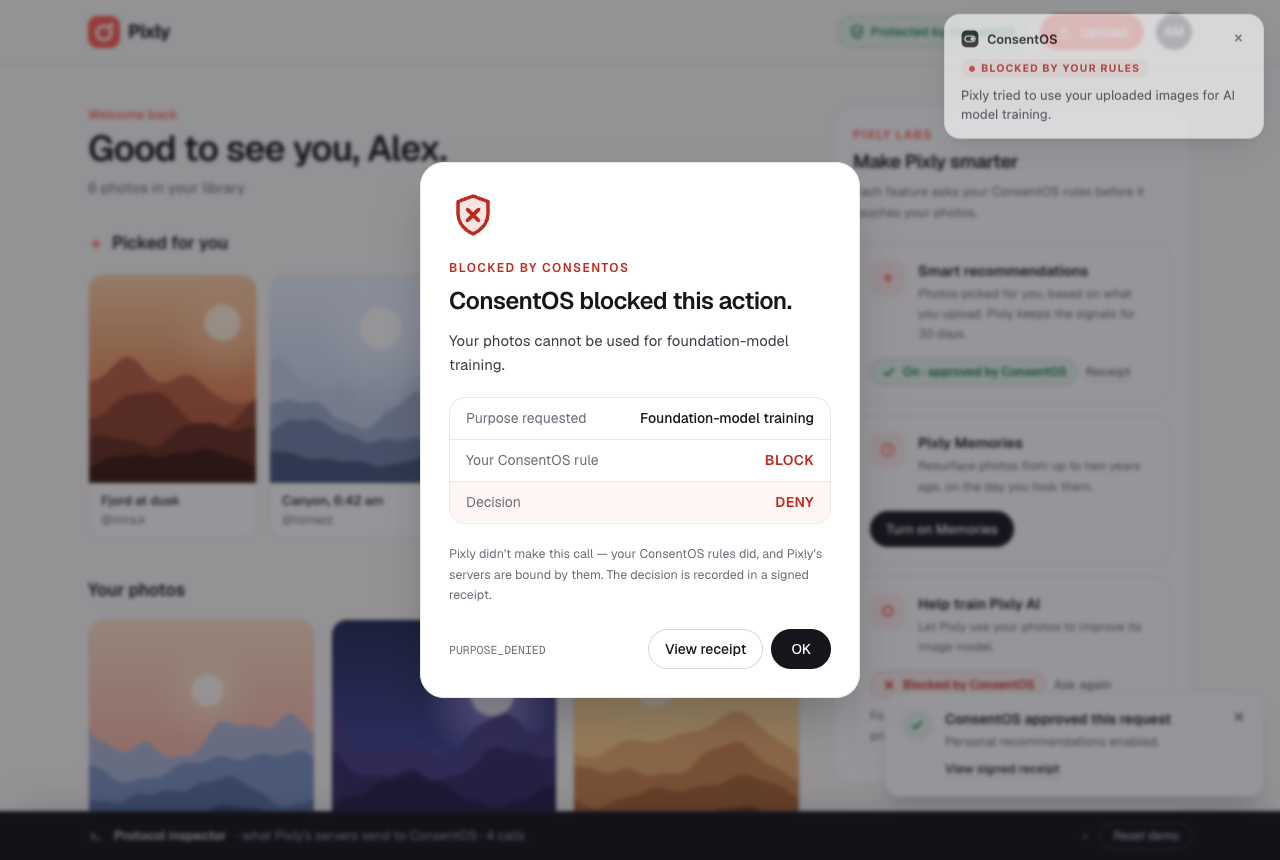
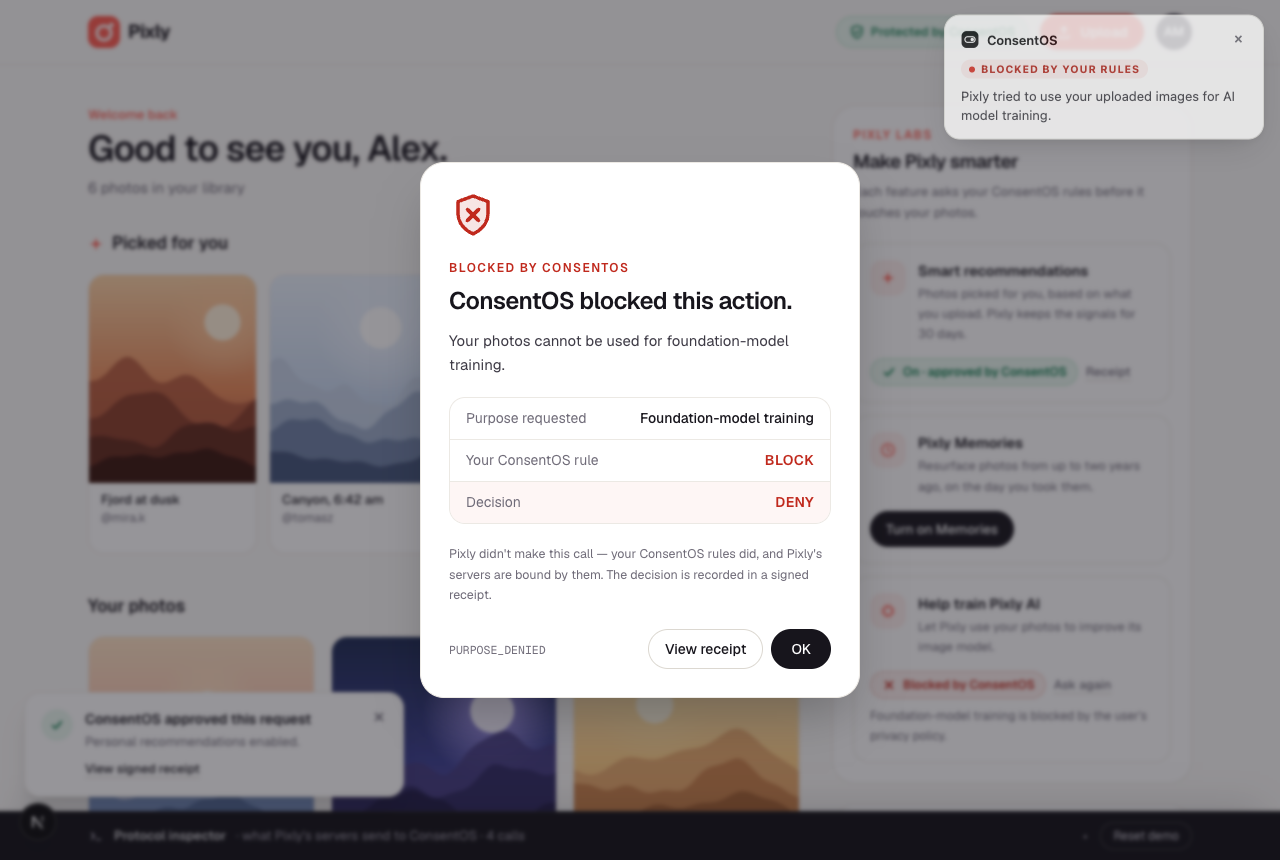
Deployment readiness, Supabase API hardening, visual polish
- Accept Vercel's Supabase integration (POSTGRES_URL), handle Supabase TLS,
  ship SQL migrations in the server bundle, serialise concurrent
  auto-migrations with an advisory lock
- New migration: user-scoped queries run as consentos_user; Supabase's
  anon/authenticated (PostgREST) roles get no access to ConsentOS tables
- Popup: pending answers first, quieter revoke, shorter site meta,
  user-facing pending reasons
- Pixly: toast no longer covers feature buttons; captions wrap
- Receipt: numbered document header (id, issued, policy version)

diff --git a/apps/web/src/server/db/index.ts b/apps/web/src/server/db/index.ts
@@ -74,12 +74,23 @@ async function openPGlite(dir: string): Promise<Database> {
   };
 }
 
+/**
+ * node-postgres treats `sslmode=require` in a URL as full certificate
+ * verification, which fails against Supabase's pooler certificate chain.
+ * Strip it and use an encrypted connection without CA pinning instead.
+ */
+export function postgresOptions(url: string): { connectionString: string; ssl: false | { rejectUnauthorized: false } } {
+  const parsed = new URL(url);
+  parsed.searchParams.delete("sslmode");
+  const local = ["localhost", "127.0.0.1", "::1"].includes(parsed.hostname);
+  return { connectionString: parsed.toString(), ssl: local ? false : { rejectUnauthorized: false } };
+}
+
 async function openPostgres(url: string): Promise<Database> {
   const { Pool } = await import("pg");
   const pool = new Pool({
-    connectionString: url,
+    ...postgresOptions(url),
     max: Number(process.env.CONSENTOS_DB_POOL_SIZE ?? 5),
-    ssl: /localhost|127\.0\.0\.1/.test(url) ? undefined : { rejectUnauthorized: false },
   });
 
   return {
@@ -115,17 +126,19 @@ async function openPostgres(url: string): Promise<Database> {
 }
 
 /**
- * Run `fn` as the given end user: inside a transaction, with the Supabase
- * `authenticated` role and JWT claims set, so row-level security applies to
- * every statement. A missing WHERE clause cannot leak another user's data.
+ * Run `fn` as the given end user: inside a transaction, as the dedicated
+ * `consentos_user` role with the user's JWT claims set, so row-level security
+ * applies to every statement. A missing WHERE clause cannot leak another
+ * user's data. (Supabase's own API roles have no access to these tables; see
+ * supabase/migrations/20260927000000_consentos_user_role.sql.)
  */
 export async function asUser<T>(userId: string, fn: (tx: Queryable) => Promise<T>): Promise<T> {
   const db = await getDb();
   return db.transaction(async (tx) => {
     await tx.query("select set_config('request.jwt.claims', $1, true)", [
-      JSON.stringify({ sub: userId, role: "authenticated" }),
+      JSON.stringify({ sub: userId, role: "consentos_user" }),
     ]);
-    await tx.query("set local role authenticated");
+    await tx.query("set local role consentos_user");
     return fn(tx);
   });
 }

diff --git a/apps/extension/src/popup/App.tsx b/apps/extension/src/popup/App.tsx
@@ -1,4 +1,11 @@
-import { dataTypeNoun, explainRule, isKnownPurpose, PURPOSE_CATALOG, purposeActivity } from "@consentos/policy-engine";
+import {
+  dataTypeNoun,
+  explainRule,
+  isKnownPurpose,
+  pendingReason,
+  PURPOSE_CATALOG,
+  purposeActivity,
+} from "@consentos/policy-engine";
 import type { EventSummary, ExtensionState, PendingSummary } from "@consentos/shared";
 import { useCallback, useEffect, useState } from "react";
 import { ApiError, fetchState, resolveRequest, revokeGrant } from "../lib/api";
@@ -304,7 +311,7 @@ function Pending({
             {p.retentionDays !== null ? `, kept ${p.retentionDays} days` : ""}.
           </p>
           <p className="muted" style={{ fontSize: 12 }}>
-            {p.reason}
+            {pendingReason(p.reasonCode, p.serviceName)}
           </p>
           <div className="pending-actions">
             <button type="button" className="btn" disabled={busy === p.requestId} onClick={() => onResolve(p, "DENY")}>
@@ -419,6 +426,7 @@ function Ready({
   return (
     <>
       <div className="body">
+        <Pending items={site.pending} busy={busy} onResolve={onResolve} />
         <div className="card">
           <div className="site">
             <span className="avatar" style={{ background: BRAND[site.service.id] ?? "#3a3a40" }} aria-hidden="true">
@@ -427,7 +435,8 @@ function Ready({
             <div style={{ minWidth: 0 }}>
               <p className="site-name">{site.service.name}</p>
               <p className="site-meta">
-                {site.service.domain} · {site.service.verified ? "Verified integration" : "Integration"}
+                {site.service.domain}
+                {site.service.verified ? " · verified" : ""}
               </p>
             </div>
             <span className="pill allow">
@@ -497,7 +506,6 @@ function Ready({
 
         </div>
 
-        <Pending items={site.pending} busy={busy} onResolve={onResolve} />
         {actionError && <p className="error-text">{actionError}</p>}
         <Rules state={state} />
       </div>

diff --git a/apps/pixly/src/components/pixly-app.tsx b/apps/pixly/src/components/pixly-app.tsx
@@ -392,7 +392,7 @@ export function PixlyApp({ consentosUrl }: { consentosUrl: string }) {
                     <li key={p.id} className="overflow-hidden rounded-2xl border border-line bg-surface">
                       <Scene seed={p.seed} className="aspect-[4/5] w-full" label={p.caption} />
                       <div className="px-3 py-2">
-                        <p className="truncate text-[13px] font-medium">{p.caption}</p>
+                        <p className="line-clamp-2 text-[13px] leading-snug font-medium">{p.caption}</p>
                         <p className="truncate text-[12px] text-muted">{p.author}</p>
                       </div>
                     </li>
@@ -441,7 +441,7 @@ export function PixlyApp({ consentosUrl }: { consentosUrl: string }) {
                     )}
                     <div className="flex items-start gap-2 px-3.5 py-3">
                       <div className="min-w-0 flex-1">
-                        <p className="truncate text-[14px] font-medium">{p.caption}</p>
+                        <p className="line-clamp-2 text-[14px] leading-snug font-medium">{p.caption}</p>
                         <p className="truncate text-[12.5px] text-muted">{p.place}</p>
                       </div>
                       <button
@@ -597,7 +597,7 @@ export function PixlyApp({ consentosUrl }: { consentosUrl: string }) {
       {toast && (
         <div
           role="status"
-          className="fixed right-4 bottom-16 z-40 w-[min(380px,calc(100vw-32px))] animate-pop rounded-2xl border border-line bg-surface p-4 shadow-xl"
+          className="fixed bottom-16 left-4 z-40 w-[min(380px,calc(100vw-32px))] animate-pop rounded-2xl border border-line bg-surface p-4 shadow-xl sm:left-6"
         >
           <div className="flex gap-3">
             <span

diff --git a/apps/web/test/consent.test.ts b/apps/web/test/consent.test.ts
@@ -445,6 +445,30 @@ describe("row-level security", () => {
     expect(rows.map((r) => r.id)).toContain("pixly");
   });
 
+  it("Supabase's API roles (anon, authenticated) cannot reach ConsentOS tables at all", async () => {
+    await evaluateConsent(await service("pixly"), body());
+    for (const role of ["anon", "authenticated"]) {
+      for (const table of ["privacy_policies", "consent_requests", "consent_receipts", "audit_events", "services"]) {
+        await expect(
+          asService(async (tx) => {
+            await tx.query("select set_config('request.jwt.claims', $1, true)", [JSON.stringify({ sub: DEMO_USER_ID })]);
+            await tx.query(`set local role ${role}`);
+            return tx.query(`select * from public.${table} limit 1`);
+          }),
+        ).rejects.toThrow(/permission denied/);
+      }
+      await expect(
+        asService(async (tx) => {
+          await tx.query(`set local role ${role}`);
+          return tx.query(
+            "insert into public.privacy_policies (user_id, version, policy_json, policy_hash) values ($1, 99, '{}'::jsonb, $2)",
+            [DEMO_USER_ID, `sha256:${"0".repeat(64)}`],
+          );
+        }),
+      ).rejects.toThrow(/permission denied/);
+    }
+  });
+
   it("users cannot un-revoke a grant", async () => {
     const res = await evaluateConsent(await service("pixly"), body());
     await revokeGrant(DEMO_USER_ID, res.receiptId!);

diff --git a/apps/web/test/tokens.test.ts b/apps/web/test/tokens.test.ts
@@ -2,6 +2,7 @@ import { describe, expect, it } from "vitest";
 import { issueToken, verifyToken } from "@/server/auth/tokens";
 import { hashPassword, verifyPassword } from "@/server/auth/password";
 import { originMatchesDomain } from "@/server/services";
+import { postgresOptions } from "@/server/db";
 
 const user = { id: "7e57de30-0000-4000-8000-000000000001", email: "demo@consentos.dev" };
 
@@ -42,5 +43,18 @@ describe("originMatchesDomain", () => {
     expect(originMatchesDomain("http://localhost:3002", "localhost:3001")).toBe(false);
     expect(originMatchesDomain("https://pixly.example.evil.test", "pixly.example")).toBe(false);
     expect(originMatchesDomain("not a url", "pixly.example")).toBe(false);
+  });
+});
+
+describe("postgresOptions", () => {
+  it("drops sslmode and keeps TLS on for remote hosts", () => {
+    const remote = postgresOptions("postgres://u:p@aws-0-eu-west-2.pooler.supabase.com:6543/postgres?sslmode=require&supa=base-pooler.x");
+    expect(remote.connectionString).not.toContain("sslmode");
+    expect(remote.connectionString).toContain("supa=base-pooler.x");
+    expect(remote.ssl).toEqual({ rejectUnauthorized: false });
+  });
+
+  it("uses plain connections locally", () => {
+    expect(postgresOptions("postgres://postgres@127.0.0.1:5432/postgres").ssl).toBe(false);
   });
 });

diff --git a/apps/web/scripts/migrate.ts b/apps/web/scripts/migrate.ts
@@ -10,16 +10,21 @@ import pg from "pg";
 import type { Queryable } from "../src/server/db/index.ts";
 import { migrate } from "../src/server/db/migrate.ts";
 
-const url = process.env.DATABASE_URL;
+const url = process.env.DATABASE_URL || process.env.POSTGRES_URL_NON_POOLING || process.env.POSTGRES_URL;
 if (!url) {
   console.error("Set DATABASE_URL to your Supabase (or any Postgres) connection string.");
   process.exit(1);
 }
 
+// Same TLS handling as the app: node-postgres reads `sslmode=require` as full
+// verification, which Supabase's certificate chain does not pass.
+const parsed = new URL(url);
+parsed.searchParams.delete("sslmode");
+const local = ["localhost", "127.0.0.1", "::1"].includes(parsed.hostname);
 const pool = new pg.Pool({
-  connectionString: url,
+  connectionString: parsed.toString(),
   max: 1,
-  ssl: /localhost|127\.0\.0\.1/.test(url) ? undefined : { rejectUnauthorized: false },
+  ssl: local ? false : { rejectUnauthorized: false },
 });
 
 type Db = Queryable & { transaction<T>(fn: (tx: Queryable) => Promise<T>): Promise<T> };

diff --git a/packages/policy-engine/src/describe.ts b/packages/policy-engine/src/describe.ts
@@ -36,3 +36,21 @@ export function decisionLabel(decision: Decision): "ALLOWED" | "BLOCKED" | "NEED
       return "NEEDS YOU";
   }
 }
+
+/** Why a request is waiting for the user, addressed to the user. */
+export function pendingReason(reasonCode: string, serviceName: string): string {
+  switch (reasonCode) {
+    case "PURPOSE_REQUIRES_CONFIRMATION":
+    case "PRECISE_LOCATION_REQUIRES_CONFIRMATION":
+    case "THIRD_PARTY_SHARING_REQUIRES_CONFIRMATION":
+      return "Your rules say to ask you first.";
+    case "UNKNOWN_PURPOSE":
+      return "ConsentOS doesn't recognise this purpose, so the decision is yours.";
+    case "UNKNOWN_DATA_TYPE":
+      return "ConsentOS doesn't recognise this kind of data, so the decision is yours.";
+    case "RETENTION_UNSPECIFIED":
+      return `${serviceName} didn't say how long it would keep the data, so the decision is yours.`;
+    default:
+      return "Your rules couldn't decide this on their own, so the decision is yours.";
+  }
+}

diff --git a/apps/web/src/app/receipts/page.tsx b/apps/web/src/app/receipts/page.tsx
@@ -1,4 +1,4 @@
-import { dataTypeNoun, purposeActivity, purposeLabel } from "@consentos/policy-engine";
+import { dataTypeNoun, pendingReason, purposeActivity, purposeLabel } from "@consentos/policy-engine";
 import type { Metadata } from "next";
 import Link from "next/link";
 import { ServiceAvatar } from "@/components/service-avatar";
@@ -82,7 +82,7 @@ export default async function ReceiptsPage() {
                     {p.serviceName} wants to use your {dataTypeNoun(p.dataType)} for {purposeActivity(p.purpose)}
                   </p>
                   <p className="mt-0.5 text-[12.5px] text-muted">
-                    {formatRetention(p.retentionDays)} · {p.reason}
+                    {formatRetention(p.retentionDays)} · {pendingReason(p.reasonCode, p.serviceName)}
                   </p>
                 </div>
                 <ResolveButtons requestId={p.requestId} />

diff --git a/apps/web/src/app/receipts/[id]/page.tsx b/apps/web/src/app/receipts/[id]/page.tsx
@@ -130,6 +130,15 @@ export default async function ReceiptPage({ params }: { params: Promise<{ id: st
             <h1 className="mt-1.5 text-3xl font-semibold tracking-tight text-ink sm:text-4xl">
               {serviceName} · {purposeLabel(r.purpose)}
             </h1>
+            <p className="mt-2 flex flex-wrap gap-x-3 gap-y-1 font-mono text-[12px] text-muted">
+              <span title={record.id}>No. {record.id.slice(0, 8).toUpperCase()}</span>
+              <span aria-hidden="true">·</span>
+              <time dateTime={record.issuedAt}>{formatDateTime(record.issuedAt)}</time>
+              <span aria-hidden="true">·</span>
+              <span>Policy v{p.policyVersion}</span>
+              <span aria-hidden="true">·</span>
+              <span>Ed25519</span>
+            </p>
           </div>
         </div>
         <StatusPill

diff --git a/apps/web/src/server/db/migrate.ts b/apps/web/src/server/db/migrate.ts
@@ -49,11 +49,16 @@ export async function migrate(
   for (const file of files) {
     if (applied.has(file)) continue;
     const sql = fs.readFileSync(path.join(migrationsDir, file), "utf8");
-    await db.transaction(async (tx) => {
+    const didApply = await db.transaction(async (tx) => {
+      // Serverless cold starts can race; one instance migrates, the rest wait and skip.
+      await tx.query("select pg_advisory_xact_lock(hashtext('consentos_migrations'))");
+      const [done] = await tx.query("select 1 from consentos_private.schema_migrations where name = $1", [file]);
+      if (done) return false;
       await tx.exec(sql);
       await tx.query("insert into consentos_private.schema_migrations (name) values ($1)", [file]);
+      return true;
     });
-    ran.push(file);
+    if (didApply) ran.push(file);
   }
   return ran;
 }

diff --git a/apps/extension/public/popup.css b/apps/extension/public/popup.css
@@ -351,18 +351,26 @@ button {
 }
 
 .text-btn {
-  border: 1px solid var(--line-strong);
-  background: var(--surface);
+  border: 1px solid transparent;
+  background: transparent;
   border-radius: 999px;
   height: 24px;
   padding: 0 9px;
   font-size: 11.5px;
   font-weight: 600;
   cursor: pointer;
-  color: var(--block);
+  color: var(--muted);
+  transition: color 0.12s, background 0.12s, border-color 0.12s;
+}
+
+.row:hover .text-btn,
+.text-btn:focus-visible {
+  border-color: var(--line-strong);
+  color: var(--ink-2);
 }
 
 .text-btn:hover {
+  color: var(--block);
   background: var(--block-bg);
   border-color: var(--block-line);
 }
@@ -494,6 +502,11 @@ button {
 
 .pending {
   border-color: var(--ask-line);
+  background: var(--ask-bg);
+}
+
+.pending .btn {
+  flex: 1;
 }
 
 .pending-item + .pending-item {

diff --git a/packages/policy-engine/src/policy.test.ts b/packages/policy-engine/src/policy.test.ts
@@ -6,6 +6,7 @@ import {
   explainRule,
   isValidPolicy,
   normalizePolicy,
+  pendingReason,
   purposeLabel,
   summarizePolicy,
   validatePolicy,
@@ -114,5 +115,13 @@ describe("explainRule", () => {
     expect(explainRule(undefined, "deny")).toBeNull();
     expect(explainRule("policy.unknown", "deny")).toBeNull();
     expect(explainRule("policy.advertising", "sometimes")).toBeNull();
+  });
+});
+
+describe("pendingReason", () => {
+  it("addresses the user, not the service", () => {
+    expect(pendingReason("PURPOSE_REQUIRES_CONFIRMATION", "Pixly")).toBe("Your rules say to ask you first.");
+    expect(pendingReason("RETENTION_UNSPECIFIED", "Pixly")).toContain("Pixly didn't say how long");
+    expect(pendingReason("UNKNOWN_PURPOSE", "Pixly")).toContain("decision is yours");
   });
 });
